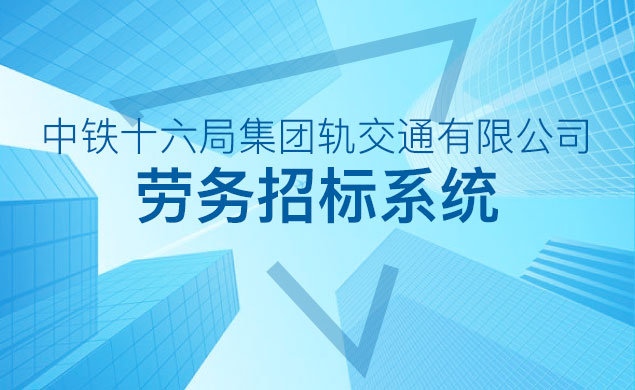
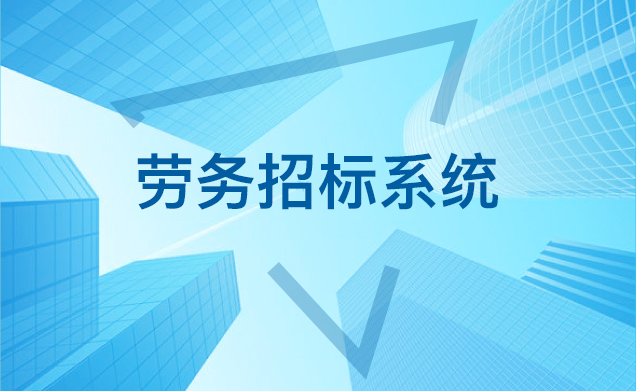
主页图片更换； 定标文件驳回再次申请； 搜索

diff --git a/RailBiding/Controllers/ProjectsController.cs b/RailBiding/Controllers/ProjectsController.cs
@@ -557,6 +557,11 @@ namespace RailBiding.Controllers
             }
             ViewBag.JoinCompany = joinCompanys;
             ViewBag.WinCompany = winCompanys;
+            ViewBag.moretime = "";
+            if (Request["status"].ToString() == "3")
+            {
+                ViewBag.moretime = "<a href = 'javascript:;' class='js-cancle-meet' title='再次申请' onclick=\"location.href='/Projects/MakeBidFileDetail?pid=" + pid + "'\"><i class='meet-icon icon-cancel icon-daooutbtn'>再次申请</i></a>";
+            }
             return View();
         }
         
